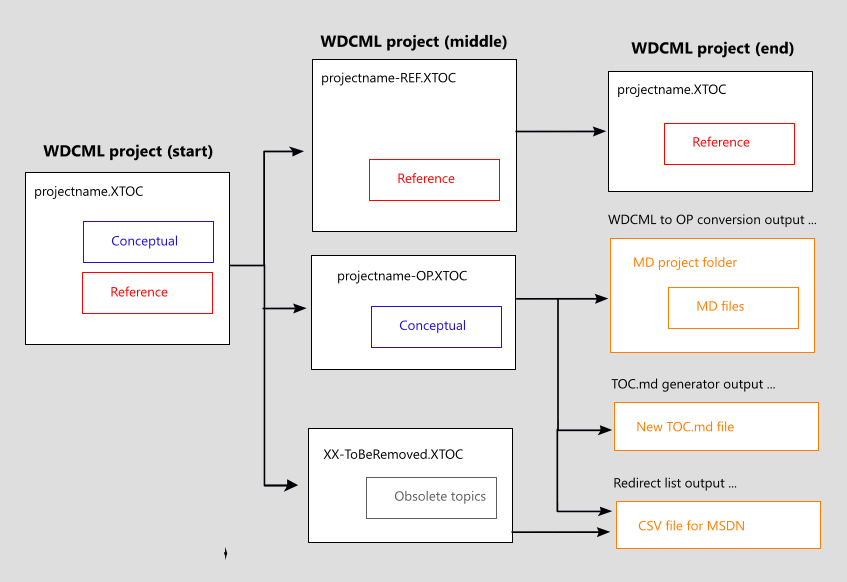
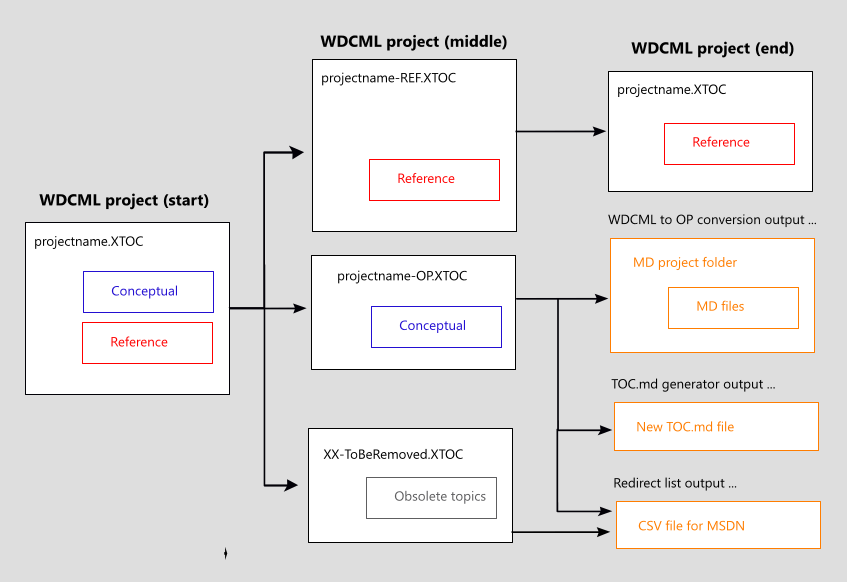
Updated image, saving progress on guide.

diff --git a/migration-guide/index.md b/migration-guide/index.md
@@ -16,6 +16,7 @@ This content is to help writers migrate the driver documentation (the conceptual
 12. [Prepare for deployment (timing!)](#s12)
 13. [Submit redirect request to MSDN team](#s13)
 
+
 ## <h2 id="s1"> Get your Git account and tools set up</a>
 
 You'll want to make sure you have **GitHub set up**, install **Visual Studio Code**, and get **PowerShell** working with Git too. The last two are options, but those tools will be used throughout this topic in examples. 
@@ -36,6 +37,12 @@ Set up your local environment variables. Add paths for:
 
 
 ## <h2 id="s2"> Refactor the WDCML TOC (create OP and REF XTOC files)</a>
+The WDCML TOC files serve to 
+
+
+![Migration components](images/MigrationComponents.png)
+
+
 
 ## <h2 id="s3"> Convert the conceptual topics to OP</a>
 
